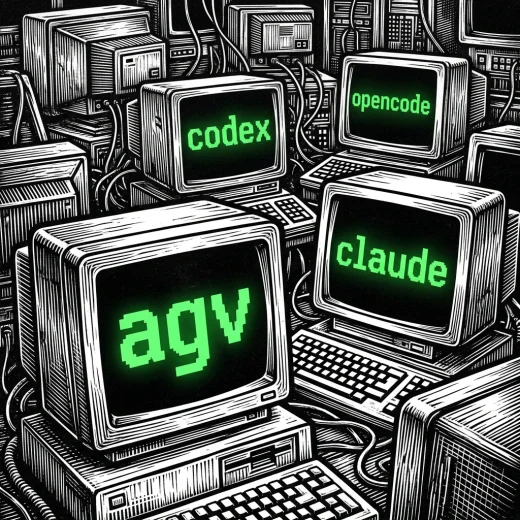
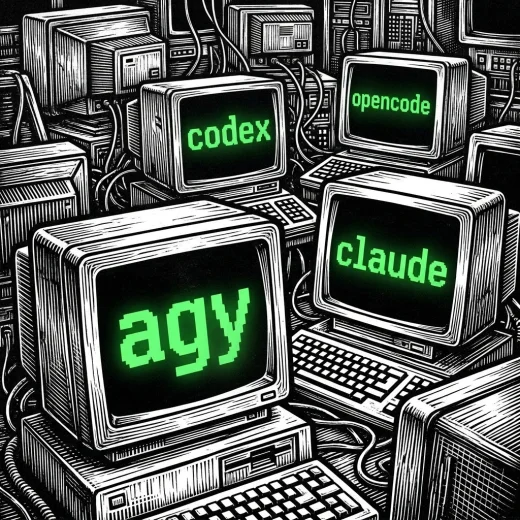
Draft Why I Use #6: lead image reads agy (typo fixed)

Changed region(s): [[0.4, 0.6462, 0.4923, 0.7385]]

diff --git a/_drafts/why-i-use-coding-agents.md b/_drafts/why-i-use-coding-agents.md
@@ -22,7 +22,7 @@ date: 2026-11-02 00:15:00 -0700
      the command; global config stays under ~/.gemini/ (project config under .agents/); the installer copies Gemini CLI skills, MCP
      servers, agents and GEMINI.md files over. Not verified, so not in the text: "Antigravity 2.0", "closed source, written in Go".
      Mike's own reasons are marked "Mike: TODO". Lead image: Mike's block-terminal-ai.jpg (Dropbox), block print of terminals reading codex, opencode,
-     claude and agv (sic: the command is agy), green text, no-invert. -->
+     claude and agy (fixed 2026-10-30; first version read agv), green text, no-invert. -->
 
 <img src="{{ '/assets/images/posts/block-terminal-ai.webp' | relative_url }}" class="post-marker no-invert" alt="" style="width: 205px;">
 
